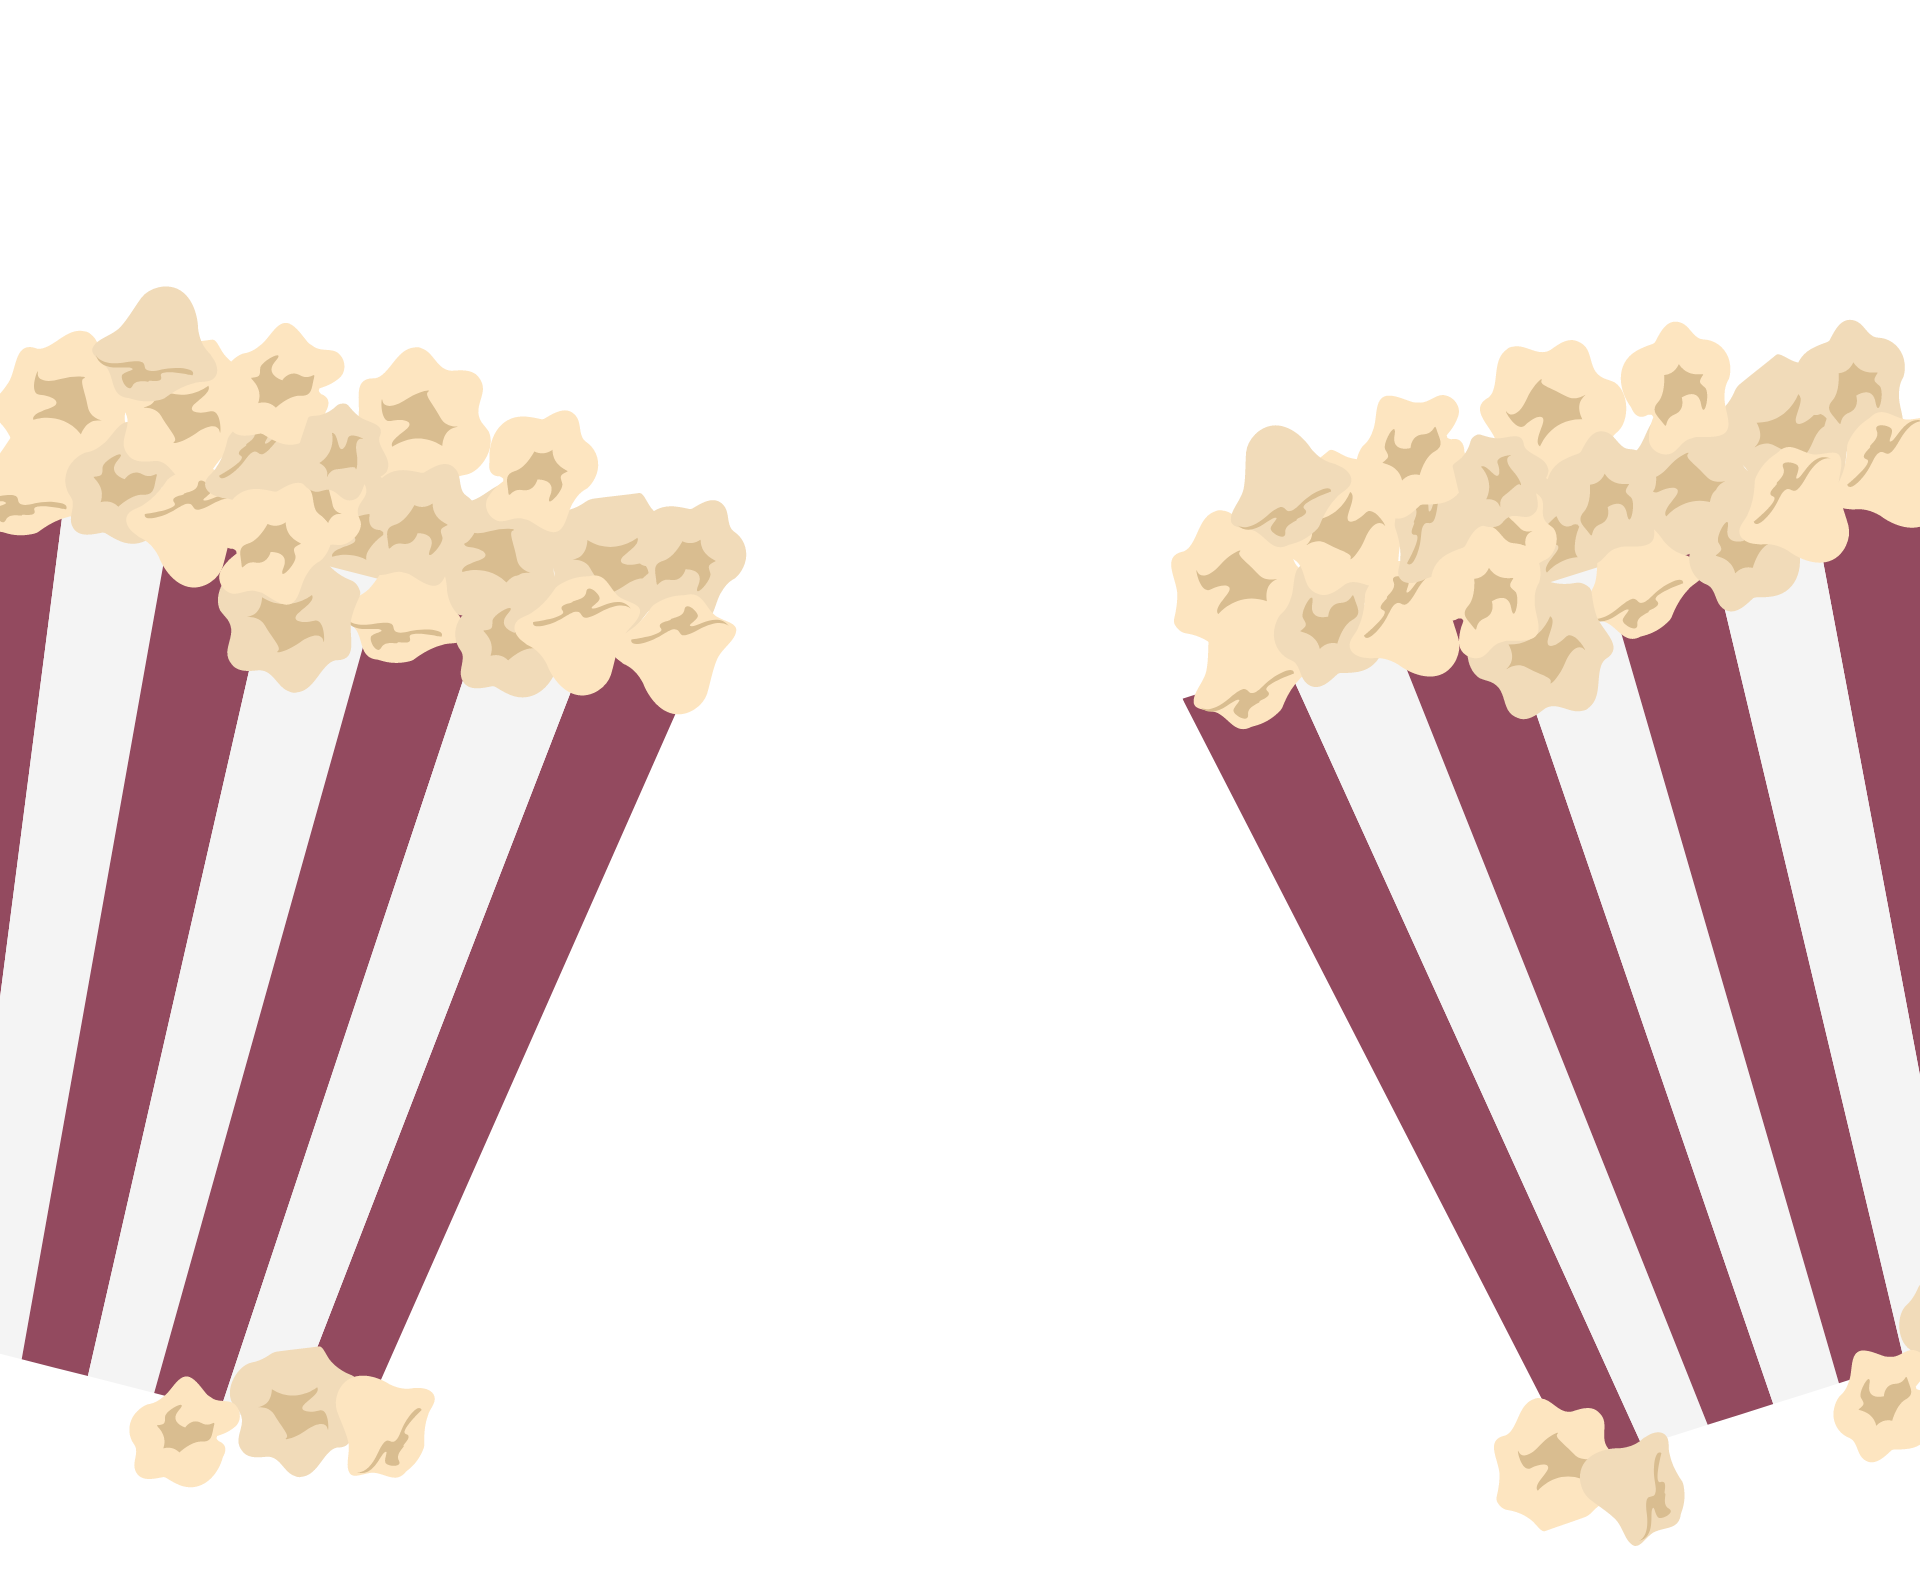
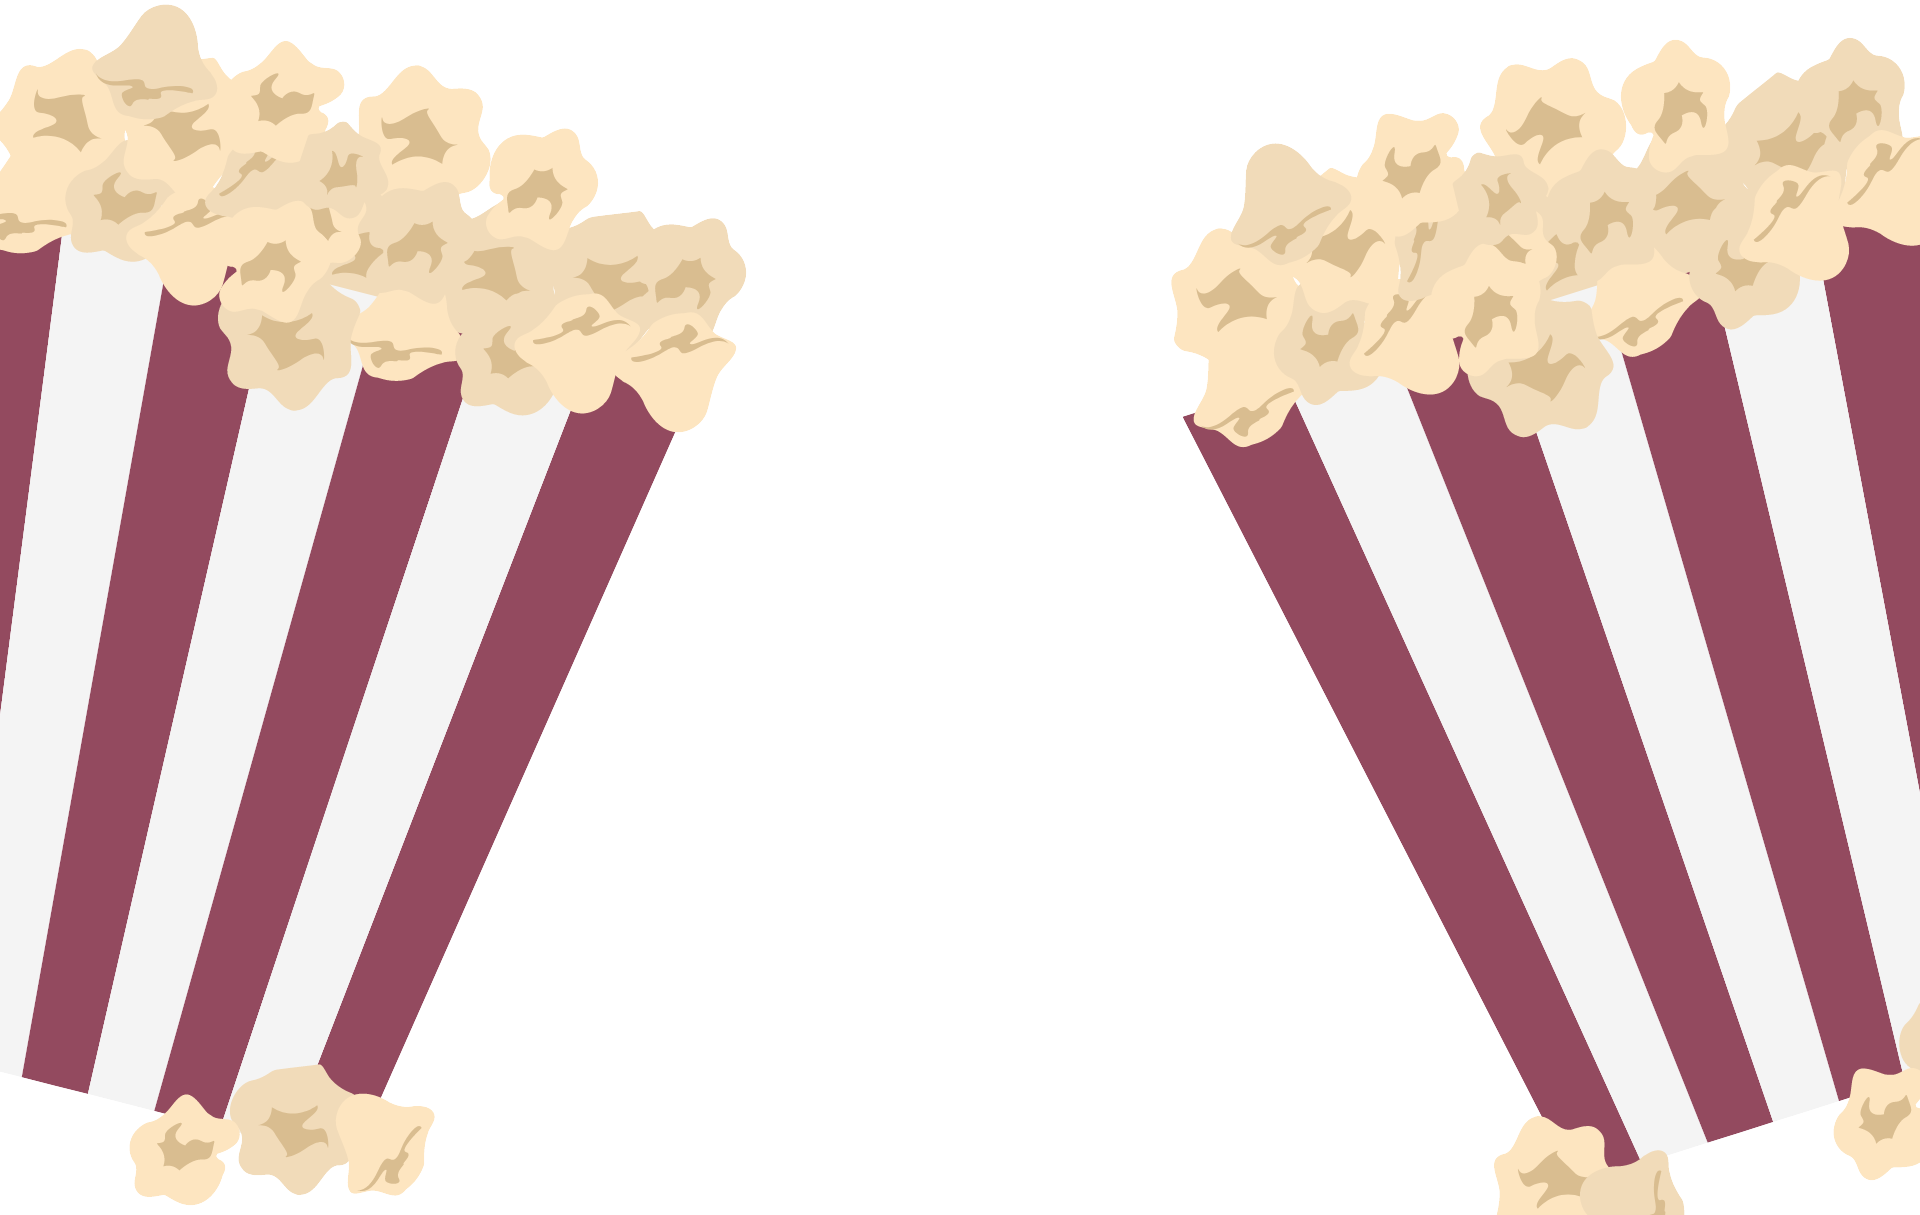
progres7

diff --git a/style.css b/style.css
@@ -13,13 +13,7 @@
     min-height: 100vh;
     background-image: url('images/background.png');
     background-size: cover;
-    /*background-repeat: no-repeat;*/
-}
-.section2 {
-    min-height: 100vh;
-    background-image: url('images/background.png');
-    background-size: cover;
-    /*background-repeat: no-repeat;*/
+    background-repeat: no-repeat;
 }
 .navbar {
     position: fixed;
@@ -125,8 +119,8 @@ header ul {
 .bucket {
     position: relative;
     bottom: 0;
+    top: 200px;
     width: 100%;
-    max-block-size: 200px;
 }
 
 .bucket-image {
@@ -135,10 +129,10 @@ header ul {
 
 .popcorn {
     position: fixed;
-    top: 88%; 
+    top: 70%; 
     left: 20%; 
     transform: translate(-50%, -50%);
-    max-width: 100%; 
+    max-width: 80%; 
     width: 10%; 
     z-index: 1000;
 }
@@ -173,4 +167,12 @@ header ul {
     padding: 10px;
     font-size: 1em;
     border-radius: 20px; 
+}
+
+/* END */
+.end {
+    width: 100%;
+    height: 200px;
+    background-color: #C2B4D6;
+    background-size: cover;
 }

diff --git a/index.html b/index.html
@@ -16,7 +16,7 @@
                 <li><a href="#" class="active">Home</a></li>
                 <li><a href="#">About</a></li>
                 <li><a href="#">WatchList</a></li>
-                <li><a href="#">WorldMap</a></li>
+                <li><a href="#">Explore</a></li>
                 <li><a href="#">Help</a></li>
                 <li><a href="login.html">Login</a></li>
             </ul>
@@ -29,7 +29,7 @@
             <li><a href="#" class="active">Home</a></li>
             <li><a href="#">About</a></li>
             <li><a href="#">WatchList</a></li>
-            <li><a href="#">WorldMap</a></li>
+            <li><a href="#">Explore</a></li>
             <li><a href="#">Help</a></li>
             <li><a href="login.html">Login</a></li>
         </div>
@@ -59,7 +59,7 @@
             }
         </script>
         </section>
-        <section class = "section2">
+        <section class = "end">
 
         </section>
     </body>
